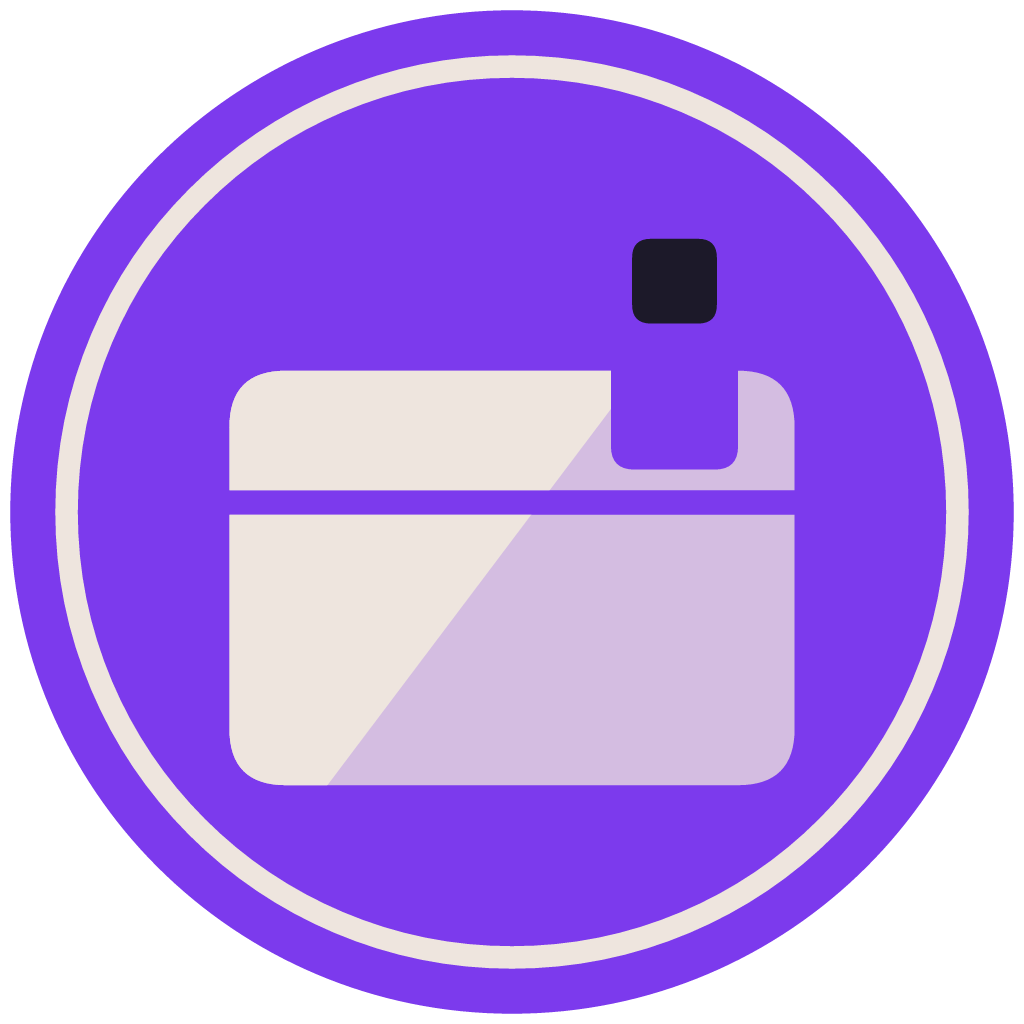
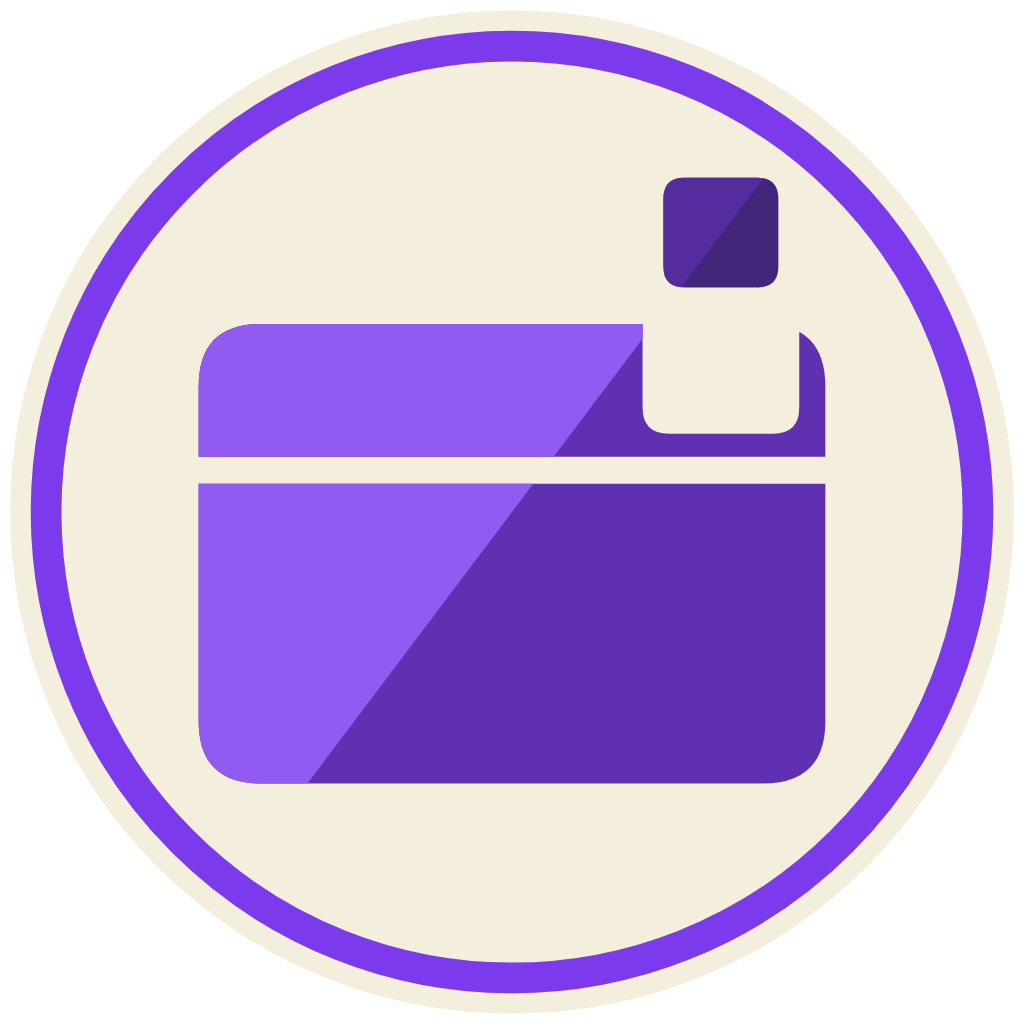
release: v0.3.4 with Folded Crest artwork

diff --git a/CHANGELOG.md b/CHANGELOG.md
@@ -1,5 +1,10 @@
 # Changelog
 
+## 0.3.4 - 2026-10-26
+
+- Replace the plugin icon and logo with the approved Folded Crest artwork and include its SVG source.
+
+
 ## 0.3.3 - 2026-10-26
 
 - Clarify setup, platform requirements, and marketplace presentation.
